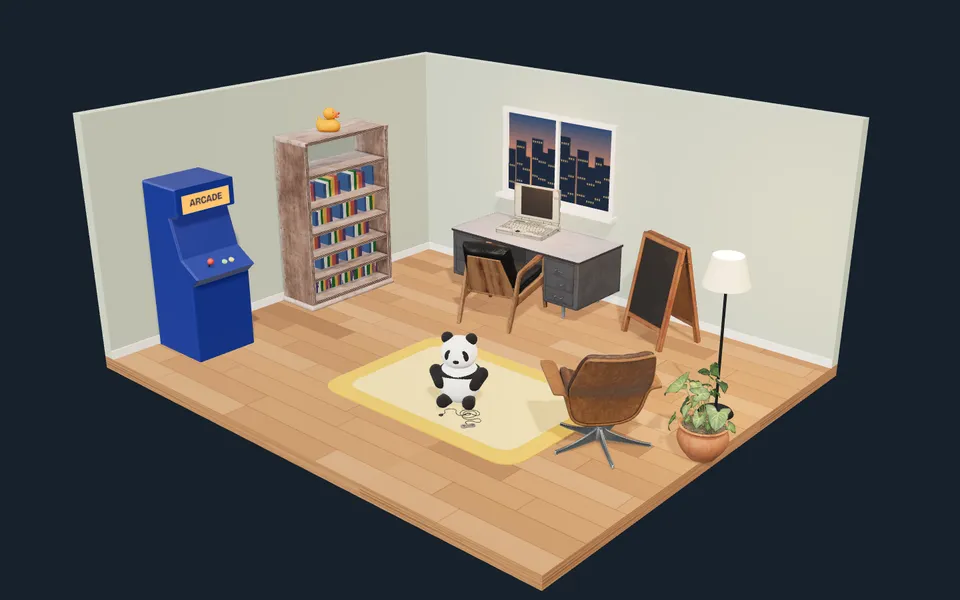
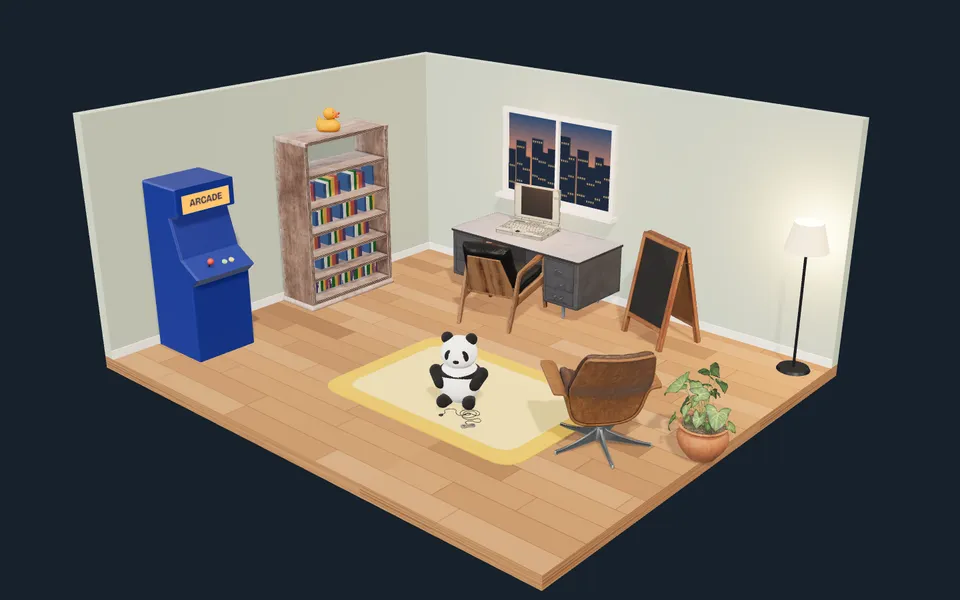
v1.3.1: the fun side's content; the Bonus moves below Contact
Learning log for October and November (summarised from the vault,
facts recorded in content/resume.md first), goals and hobbies from
Shafik. The Bonus and its bar link move after Contact, as the
recruiter critic suggested. Fixes: #bonus links now land on the
Bonus; the floor lamp no longer blocks the chalkboard view.

Claude-Session: https://claude.ai/code/session_01Mup145nDeBXyK1aRj5rneA

Changed region(s): [[0.8125, 0.3, 0.9062, 0.63], [0.7188, 0.42, 0.7812, 0.57], [0.7188, 0.63, 0.7812, 0.69]]

diff --git a/back/index.html b/back/index.html
@@ -64,7 +64,20 @@
         <p>Once a month I sum up what I learned, like a short dev log for the month.</p>
         <article class="log">
           <h3>November 2026</h3>
-          <p class="placeholder">PLACEHOLDER: Shafik's summary of what he learned in November 2026.</p>
+          <ul class="log__list">
+            <li><strong>Model predictive control.</strong> I fitted a simple thermal model from an experiment on a simulated building, then planned its heating 24 hours ahead, every hour. On weeks it hadn't seen, it cost 14% to 20% less than a fixed thermostat.</li>
+            <li><strong>An AI dev team that ships.</strong> <a href="https://github.com/AD-NAP/not-another-prototype">NAP</a>, my Claude Code team of a PM, an Architect, an Engineer and a Reviewer, took one brief to a working app in about 45 minutes: 7 issues, 4 PRs, all approved on the first review, CI green.</li>
+            <li><strong>What broke along the way.</strong> Agents in headless runs need one command per call. A test that only reads the CI file doesn't prove CI works. A stacked PR can land on a dead branch.</li>
+            <li><strong>This site, three times over.</strong> The build log zine, the business card that opens into a drawing sheet, and this room. Scale the paper, never the text. Search for what exists before building it.</li>
+          </ul>
+        </article>
+        <article class="log">
+          <h3>October 2026</h3>
+          <ul class="log__list">
+            <li><strong>Forecasting with real meter data.</strong> A day-ahead load forecast for an office building beat "same hour last week" by 24.5%. Data leakage took me three tries: lags count back from the hour you predict, not from now.</li>
+            <li><strong>RAG and tool calling.</strong> I started <a href="https://github.com/AD-NAP/cumulus-coach">cumulus-coach</a>, an AWS study agent that answers with citations, refuses off-topic questions, and calls a tool.</li>
+            <li><strong>Claude Code's building blocks.</strong> I learned CLAUDE.md, skills, hooks, subagents and plan mode by building this portfolio. Playwright drives a real browser to screenshot it and test its accessibility.</li>
+          </ul>
         </article>
       </section>
 
@@ -100,7 +113,11 @@
       <section class="thing" id="thing-board" data-thing="board" aria-labelledby="h-board">
         <p class="thing__where">On the chalkboard</p>
         <h2 id="h-board">Future goals</h2>
-        <p class="placeholder">PLACEHOLDER: Shafik's goals, written by him.</p>
+        <ul class="goals">
+          <li><span class="goals__mark" aria-hidden="true"></span><span>Get the AWS Certified Cloud Practitioner certificate by the end of 2026.</span></li>
+          <li><span class="goals__mark" aria-hidden="true"></span><span>Finish <a href="https://github.com/AD-NAP/cumulus-coach">cumulus-coach</a>, my AWS study agent, by the end of 2026.</span></li>
+          <li class="is-done"><span class="goals__mark" aria-hidden="true"></span><span>Finish edge-energy-optimizer. <strong>Done</strong> in November 2026.</span></li>
+        </ul>
       </section>
 
       <section class="thing" id="thing-chair" data-thing="chair" aria-labelledby="h-chair">
@@ -108,8 +125,9 @@
         <h2 id="h-chair">Hobbies</h2>
         <p>Life off the clock.</p>
         <ul class="hobbies">
+          <li>I read self-help books about how people think, like <cite>The Art of Thinking Clearly</cite>.</li>
+          <li>I play shooter games, and I'm pretty good at them.</li>
           <li>I love cats and pandas.</li>
-          <li class="placeholder">PLACEHOLDER: more of Shafik's hobbies, in his words.</li>
         </ul>
       </section>
 

diff --git a/index.html b/index.html
@@ -46,10 +46,10 @@
         <li><a href="#about">About</a></li>
         <li><a href="#experience">Experience</a></li>
         <li><a href="#projects">Projects</a></li>
-        <li class="bonus-entry" hidden><a href="#bonus">Bonus</a></li>
         <li><a href="#notes">Lessons</a></li>
         <li><a href="#skills">Skills</a></li>
         <li><a href="#contact">Contact</a></li>
+        <li class="bonus-entry" hidden><a href="#bonus">Bonus</a></li>
       </ol>
     </nav>
     <!-- Shows the theme it switches to: sun and "Light mode" in dark, moon and "Dark mode" in light (main.js). -->
@@ -250,25 +250,6 @@
       </div>
     </section>
 
-    <!-- Bonus: hidden until the riddle in Contact is solved (main.js) -->
-    <section id="bonus" class="section bonus" aria-labelledby="bonus-title" hidden>
-      <h2 id="bonus-title" class="section__title">Bonus</h2>
-      <div class="bonus__body">
-        <div class="bonus__room" aria-hidden="true">
-          <img src="assets/fun-preview.webp" width="960" height="600" alt="" loading="lazy" decoding="async">
-        </div>
-        <div class="bonus__text">
-          <p class="bonus__lede">You solved the riddle.</p>
-          <p>Behind this sheet is the fun side of my portfolio: a 3D room with my hobbies, a museum of this site's past versions, a learning log and a mini game.</p>
-          <p class="bonus__phone" role="status"></p>
-          <div class="bonus__actions">
-            <a class="fun-zone" href="back/">Take me to the fun zone</a>
-            <button class="riddle-reset" type="button">Reset the riddle</button>
-          </div>
-        </div>
-      </div>
-    </section>
-
     <!-- Lessons learned -->
     <section id="notes" class="section" aria-labelledby="notes-title">
       <h2 id="notes-title" class="section__title">Lessons learned</h2>
@@ -355,6 +336,25 @@
         </div>
       </div>
     </section>
+    <!-- Bonus: hidden until the riddle in Contact is solved (main.js) -->
+    <section id="bonus" class="section bonus" aria-labelledby="bonus-title" hidden>
+      <h2 id="bonus-title" class="section__title">Bonus</h2>
+      <div class="bonus__body">
+        <div class="bonus__room" aria-hidden="true">
+          <img src="assets/fun-preview.webp" width="960" height="600" alt="" loading="lazy" decoding="async">
+        </div>
+        <div class="bonus__text">
+          <p class="bonus__lede">You solved the riddle.</p>
+          <p>Behind this sheet is the fun side of my portfolio: a 3D room with my hobbies, a museum of this site's past versions, a learning log and a mini game.</p>
+          <p class="bonus__phone" role="status"></p>
+          <div class="bonus__actions">
+            <a class="fun-zone" href="back/">Take me to the fun zone</a>
+            <button class="riddle-reset" type="button">Reset the riddle</button>
+          </div>
+        </div>
+      </div>
+    </section>
+
   </main>
 
   <!-- Title block: the footer, set like the corner of a drawing sheet. -->
@@ -362,7 +362,7 @@
     <dl class="titleblock__grid">
       <div class="titleblock__main"><dt>Drawn by</dt><dd>Shafik Adam</dd></div>
       <div><dt>Built with</dt><dd>Plain HTML, CSS and JavaScript, hosted on GitHub Pages</dd></div>
-      <div><dt>Revision</dt><dd>1.3.0</dd></div>
+      <div><dt>Revision</dt><dd>1.3.1</dd></div>
       <div><dt>Date</dt><dd>Nov 2026</dd></div>
     </dl>
   </footer>

diff --git a/back/fun.css b/back/fun.css
@@ -133,6 +133,20 @@ button { font: inherit; cursor: pointer; }
 .mono { font-family: ui-monospace, "SFMono-Regular", Menlo, Consolas, monospace; font-size: .92em; }
 
 .log { border-top: 1px solid var(--rule); padding-top: 14px; margin-top: 16px; }
+.log h3 { margin-bottom: 8px; }
+.log__list { margin: 0; padding-left: 20px; display: grid; gap: 10px; }
+.log__list strong { font-weight: 700; }
+cite { font-style: italic; }
+
+.goals { list-style: none; margin: 4px 0 0; padding: 0; display: grid; gap: 12px; }
+.goals li { display: grid; grid-template-columns: 22px 1fr; gap: 10px; align-items: start; }
+.goals__mark { width: 20px; height: 20px; margin-top: 3px; border: 2px solid var(--ink-2); border-radius: 6px; }
+.goals .is-done .goals__mark { background: var(--leaf); border-color: var(--leaf); position: relative; }
+.goals .is-done .goals__mark::after {
+  content: ""; position: absolute; left: 5px; top: 1px; width: 5px; height: 10px;
+  border: solid var(--paper); border-width: 0 2px 2px 0; transform: rotate(45deg);
+}
+.goals .is-done > span:last-child { color: var(--ink-2); }
 
 .museum { list-style: none; margin: 18px 0 0; padding: 0; display: grid; gap: 26px; }
 .museum img {
@@ -192,7 +206,7 @@ button { font: inherit; cursor: pointer; }
 .mode-list .credits { position: static; max-width: 820px; margin: 0 auto; padding: 0 24px 32px; opacity: 1; }
 
 @media (max-width: 820px), (hover: none) and (pointer: coarse) {
-  .thing a, .credits a { display: inline-flex; align-items: center; min-height: 44px; }
+  .thing a, .credits a { display: inline-flex; align-items: center; justify-content: center; min-height: 44px; min-width: 44px; }
 }
 
 @media (max-width: 600px) {

diff --git a/assets/main.js b/assets/main.js
@@ -163,6 +163,11 @@
     let solved = false;
     try { solved = ["bonus", ...OLD_KEYS].some(k => localStorage.getItem(k) === "open"); } catch (e) {}
     if (solved) openBonus(false);
+    // A link to #bonus (from the fun side's "Back to the portfolio") arrives while the section is still hidden,
+    // so the browser can't land on it. Scroll there once the page has loaded (an earlier jump gets reset).
+    if (solved && location.hash === "#bonus") {
+      window.addEventListener("load", () => requestAnimationFrame(() => bonus.scrollIntoView({ behavior: "instant", block: "start" })), { once: true });
+    }
   }
 
   /* ---------- The card opens into the portfolio ----------

diff --git a/back/room.js b/back/room.js
@@ -110,7 +110,7 @@ export async function startRoom({ canvas, tag, labels, reduceMotion, onPick, onP
   const bulb = new THREE.PointLight(0xffc56e, 5, 5, 2);
   bulb.position.y = 1.45;
   lamp.add(bulb);
-  lamp.position.set(2.6, 0, -0.75);
+  lamp.position.set(2.7, 0, -2.2);
   scene.add(lamp);
 
   /* ---------- Things you can click ---------- */

diff --git a/content/resume.md b/content/resume.md
@@ -90,6 +90,18 @@ Copied on 2026-10-31. Sources: the public repo `AD-NAP/cumulus-coach` (`README.m
 - rag-agent-service: never started; the idea became cumulus-coach. (`projects/rag-agent-service.md`, `projects/cumulus-coach.md`)
 - 30-days-of-python, neetcode-150: practice repos, nothing solved yet. (`projects/30-days-of-python.md`, `projects/neetcode-150.md`)
 
+## From AD-NAP/vault: the fun side (2026-11-19)
+
+Facts for the fun side's learning log (`back/`, desk). Summaries of Shafik's own notes; nothing about his job, per the vault's privacy rule.
+
+- October 2026: day-ahead load forecast for one office building (Building Data Genome Project 2) beat "same hour last week" by 24.5% (MAE 34.5 against 45.7 kWh). Data leakage took three tries: lags count backward from the target hour, not from now. (`dev-log/04-10-2026.md`)
+- October 2026: started cumulus-coach on 20-10-2026, an AWS study agent with RAG, citations, an off-topic cutoff and tool calling. (`projects/cumulus-coach.md`)
+- October 2026: learned Claude Code's building blocks (CLAUDE.md, skills, hooks, subagents, plan mode) by building this portfolio; Playwright drives a real browser for the checker's screenshots and accessibility scan. (`dev-log/09-10-2026.md`, BACKLOG.md "Learning path")
+- November 2026: model predictive control for edge-energy-optimizer: a thermal model fitted from a system identification experiment, a 24-hour plan re-solved every hour; 14% to 20% cheaper than the fixed thermostat on unseen periods (also above). Done 16-11-2026. (`projects/edge-energy-optimizer.md`)
+- November 2026: NAP (Not Another Prototype), a Claude Code dev team (PM, Architect, Engineer, Reviewer, run by a Personal Assistant), took one brief to a working app in about 45 minutes: 7 issues, 4 PRs, all approved on the first review, CI green. Public repo: https://github.com/AD-NAP/not-another-prototype (public since 09-11-2026). (`dev-log/14-11-2026.md`, `dev-log/15-11-2026.md`, `projects/nap.md`)
+- November 2026, lessons from NAP: agents in headless runs need one command per call; a test that reads the CI file as text doesn't prove CI works; a stacked PR landed on a dead branch. (`dev-log/14-11-2026.md`, `dev-log/15-11-2026.md`)
+- November 2026, lessons from this site: the zine, the business card that opens into a drawing sheet, and the fun side's room; scale a background layer, never the text; search for what exists before building. (`dev-log/18-11-2026.md`, `dev-log/19-11-2026.md`)
+
 ## Education
 
 - National University of Singapore, School of Computing: Bachelor of Computing (Computer Science), Honours (Merit), Jan 2026. Relevant coursework: Software Engineering; Data Structures and Algorithms; Design and Analysis of Algorithms; Programming Methodology I & II; Computer Organisation; Introduction to AI.
@@ -121,3 +133,8 @@ Copied on 2026-10-31. Sources: the public repo `AD-NAP/cumulus-coach` (`README.m
 - Ground Labs dates corrected from Aug 2019 to Nov 2019 (wrong) to May 2022 to Aug 2022, during NUS. Final interview 27 Apr 2022; NUS SIP period 11 May to 31 Jul 2022, shown as May to Aug. (Shafik, 2026-10-22)
 - Keeps a dev log and learning notes for his projects in the vault: dated entries such as `dev-log/04-10-2026.md` and notes under `learning/machine-learning/`, cited as sources above. Used on the v1.0.0 cover ("I keep a dev log of what each project teaches me") and in "Notes I took", whose lessons restate facts already in this file. (2026-11-18)
 - Cloud BMS is written in TypeScript: the frontend is Svelte in TypeScript, and the backend is mostly AWS CDK in TypeScript. Python is used only for the Brick Schema metadata tooling, because of the Brick Schema libraries. (Shafik, 2026-11-18)
+
+## Facts Shafik added for the fun side (2026-11-19)
+
+- Hobbies: reads self-help books on how people think, such as *The Art of Thinking Clearly*; plays shooter games and is "pretty good at it". (Shafik, 2026-11-19)
+- Goals: the AWS Certified Cloud Practitioner certificate by the end of 2026; finish cumulus-coach by the end of 2026; edge-energy-optimizer shown as completed. (Shafik, 2026-11-19)

diff --git a/CLAUDE.md b/CLAUDE.md
@@ -2,7 +2,7 @@
 
 Single-page portfolio for Shafik Adam, a software engineer in Singapore. Plain HTML/CSS/JS with no build step: `index.html`, `assets/styles.css`, `assets/main.js`. Intended host: GitHub Pages, served from `main`.
 
-The concept (since v1.2.0, 2026-11-18): **the business card opens into a drawing sheet**. The page opens on a business card lying on a drafting desk. Scrolling, or "Open the portfolio", grows the card's stock into a technical drawing sheet, moves the name up to the bar at the top-left, and brings the bar's links in: the portfolio was inside the card all along. From Shafik's vault note `ideas/business-card-idea.md`; see `docs/decisions/0004-card-into-portfolio.md`. After the card it reads top to bottom: About (with Highlights linking to the proof), Experience, Projects, Lessons learned, Skills and Education, and Contact with the riddle. Experience comes before Projects, and section names stay plain so recruiters can scan them (Shafik, 2026-11-18). A hidden Bonus section opens when a visitor solves the riddle, and leads to **the fun side** (`back/`, since v1.3.0): a 3D room that is the third state of the site. The footer is a drawing title block (drawn by, built with, revision, date): update its revision and date with each release. Retired worlds: the isometric building (v0.2.0 to v0.5.0) and The build log zine (v1.0.0 to v1.1.0); see decisions 0002 and 0003.
+The concept (since v1.2.0, 2026-11-18): **the business card opens into a drawing sheet**. The page opens on a business card lying on a drafting desk. Scrolling, or "Open the portfolio", grows the card's stock into a technical drawing sheet, moves the name up to the bar at the top-left, and brings the bar's links in: the portfolio was inside the card all along. From Shafik's vault note `ideas/business-card-idea.md`; see `docs/decisions/0004-card-into-portfolio.md`. After the card it reads top to bottom: About (with Highlights linking to the proof), Experience, Projects, Lessons learned, Skills and Education, Contact with the riddle, and last the hidden Bonus (moved below Contact in v1.3.1 so the evidence reads unbroken; Shafik, 2026-11-19). Experience comes before Projects, and section names stay plain so recruiters can scan them (Shafik, 2026-11-18). A hidden Bonus section opens when a visitor solves the riddle, and leads to **the fun side** (`back/`, since v1.3.0): a 3D room that is the third state of the site. The footer is a drawing title block (drawn by, built with, revision, date): update its revision and date with each release. Retired worlds: the isometric building (v0.2.0 to v0.5.0) and The build log zine (v1.0.0 to v1.1.0); see decisions 0002 and 0003.
 
 ## Working with Shafik
 - Shafik is learning Claude Code while we build. At each step, say briefly what you're doing, which Claude Code building block it uses, and what comes next.

diff --git a/BACKLOG.md b/BACKLOG.md
@@ -9,8 +9,8 @@ Status: `[ ]` to do · `[~]` in progress · `[x]` done · `[?]` waiting on Shafi
 
 ## Waiting on Shafik
 
-- [?] Publish v1.3.0 on github.com (notes and screenshots in `docs/releases/v1.3.0.md`)
-- [?] Fun side content, in your words: hobbies, the November 2026 learning log entry, and future goals (now visible PLACEHOLDERs in `back/index.html`)
+- [?] Publish v1.3.0 and v1.3.1 on github.com (notes and screenshots in `docs/releases/`)
+- [x] Fun side content: hobbies and goals from Shafik, the learning log for October and November summarised from the vault (v1.3.1, 2026-11-19)
 - [?] Try the fun zone on your PC with a real GPU: the camera glides, dragging to turn the room, the panda's hop
 - [?] Publish v1.2.2 on github.com (notes and screenshots in `docs/releases/v1.2.2.md`)
 - [x] Publish v1.1.0 on github.com (published 2026-11-18 from a local session with `gh`)
@@ -43,8 +43,9 @@ Decision: `docs/decisions/0005-the-fun-side.md`. Idea: vault `ideas/back-of-the-
 - [ ] A real mini game to replace Squash the bugs
 - [ ] Shadows are soft and faint in software rendering; check them on a real GPU and tune the key light
 - [ ] Phones: a light version of the 3D room, if wanted later
-- [ ] A new learning log entry each month
-- [?] Recruiter critic (v1.3): move the Bonus section and its nav link after Contact, next to the riddle, so the evidence reads unbroken. Shafik decides (page order is his rule). Report: `reviews/2026-11-19-recruiter-critic-v1.3.md`
+- [ ] A new learning log entry each month: December 2026 next, summarised from the vault dev logs into `content/resume.md` first, then `back/index.html`
+- [ ] Ideas: write the goals on the 3D chalkboard itself; show the learning log's month on the laptop screen
+- [x] Recruiter critic (v1.3): the Bonus section and its bar link moved after Contact, next to the riddle (Shafik agreed; v1.3.1). Report: `reviews/2026-11-19-recruiter-critic-v1.3.md`
 
 ## Next: projects as engineering stories
 

diff --git a/docs/releases/v1.3.1.md b/docs/releases/v1.3.1.md
@@ -1,0 +1,27 @@
+# v1.3.1: The fun side gets its content
+
+Follow-ups to v1.3.0, asked for by Shafik.
+
+## What's changed
+- **Learning log (the desk).** Summaries of October and November 2026, from my own dev logs and notes: model predictive control, NAP (my Claude Code dev team), what broke along the way, this site, load forecasting, RAG and tool calling, and Claude Code's building blocks.
+- **Future goals (the chalkboard).** The AWS Certified Cloud Practitioner certificate and cumulus-coach by the end of 2026; edge-energy-optimizer ticked off as done.
+- **Hobbies (the lounge chair).** Self-help books on how people think, shooter games, and cats and pandas.
+- **The Bonus moves below Contact,** right after the riddle that opens it, in the page and in the bar. The evidence now reads without a break.
+- **Fixes:** a link to `#bonus`, such as "Back to the portfolio" from the room, now lands on the Bonus (it used to stop short while the section was still hidden). The floor lamp moved into the corner so it no longer blocks the chalkboard.
+
+## Quality
+- Design check passes: both themes at 390px and 1280px, axe at 0 violations, contrast, 44px touch targets, the card, the riddle, reduced motion, and every fun-zone test.
+
+## Screenshots
+
+**The learning log**
+![The desk with the learning log](https://github.com/AD-NAP/portfolio/raw/main/docs/releases/v1.3.1/learning-log-1280.png)
+
+**Goals on the chalkboard**
+![The chalkboard with the goals checklist](https://github.com/AD-NAP/portfolio/raw/main/docs/releases/v1.3.1/goals-1280.png)
+
+**Hobbies**
+![The lounge chair with hobbies](https://github.com/AD-NAP/portfolio/raw/main/docs/releases/v1.3.1/hobbies-1280.png)
+
+**The Bonus, now after Contact**
+![The Bonus below Contact, dark](https://github.com/AD-NAP/portfolio/raw/main/docs/releases/v1.3.1/bonus-after-contact-1280.png)

diff --git a/docs/architecture.md b/docs/architecture.md
@@ -12,7 +12,7 @@ One page, three files, no build step:
 
 | File | Job |
 |---|---|
-| `index.html` | All content and structure: the bar, the opening (the card `#card` lying over About), then Experience, Projects, the hidden Bonus, Lessons learned, Skills and Education, Contact with the riddle, and the title block footer. |
+| `index.html` | All content and structure: the bar, the opening (the card `#card` lying over About), then Experience, Projects, Lessons learned, Skills and Education, Contact with the riddle, the hidden Bonus (the way into the fun side, right after the riddle that opens it; moved there in v1.3.1), and the title block footer. |
 | `assets/styles.css` | Layout, both themes, the type ramp, the card and the CSS variables the transition drives. Colours and font sizes come from tokens in `:root` and `[data-theme]`. |
 | `assets/main.js` | Behaviour: the card-to-sheet transition (two states: wheel, touch, keys and the button; returning visitors, replay, keyboard), theme toggle, section highlight, the riddle and its bonus, the `ad-nap` flip. |
 | `assets/vendor/` | GSAP 3.15.0 (`gsap.min.js`, `ScrollTrigger.min.js`) and Three.js 0.187.0 (`three/`, used only by `back/`), self-hosted. Licences and sources in `.claude/skills/THIRD_PARTY.md`. |

diff --git a/README.md b/README.md
@@ -25,6 +25,7 @@ The checker serves the site, screenshots both themes at phone and desktop width,
 
 | Version | Date | Summary |
 |---|---|---|
+| [v1.3.1](https://github.com/AD-NAP/portfolio/releases/tag/v1.3.1) | 2026-11-19 | The fun side gets its content: a learning log for October and November, goals and hobbies; the Bonus moves below Contact |
 | [v1.3.0](https://github.com/AD-NAP/portfolio/releases/tag/v1.3.0) | 2026-11-19 | The fun side: solving the riddle leads to a 3D room (Three.js, Poly Haven models) with a museum of past versions, a learning log, goals, hobbies and Squash the bugs; the Bonus zooms into it; a plain list for phones and reduced motion |
 | [v1.2.2](https://github.com/AD-NAP/portfolio/releases/tag/v1.2.2) | 2026-11-19 | Every visit opens on the card; a lighter card in dark mode; a sun/moon switch on the card whose icon walks into the bar's theme button, and theme buttons that show the theme they switch to |
 | [v1.2.1](https://github.com/AD-NAP/portfolio/releases/tag/v1.2.1) | 2026-11-19 | Any scroll or the button opens the card in the same 1.5s (it was far too fast from the button), scrolling up at the top plays it back; dark is the default theme |
